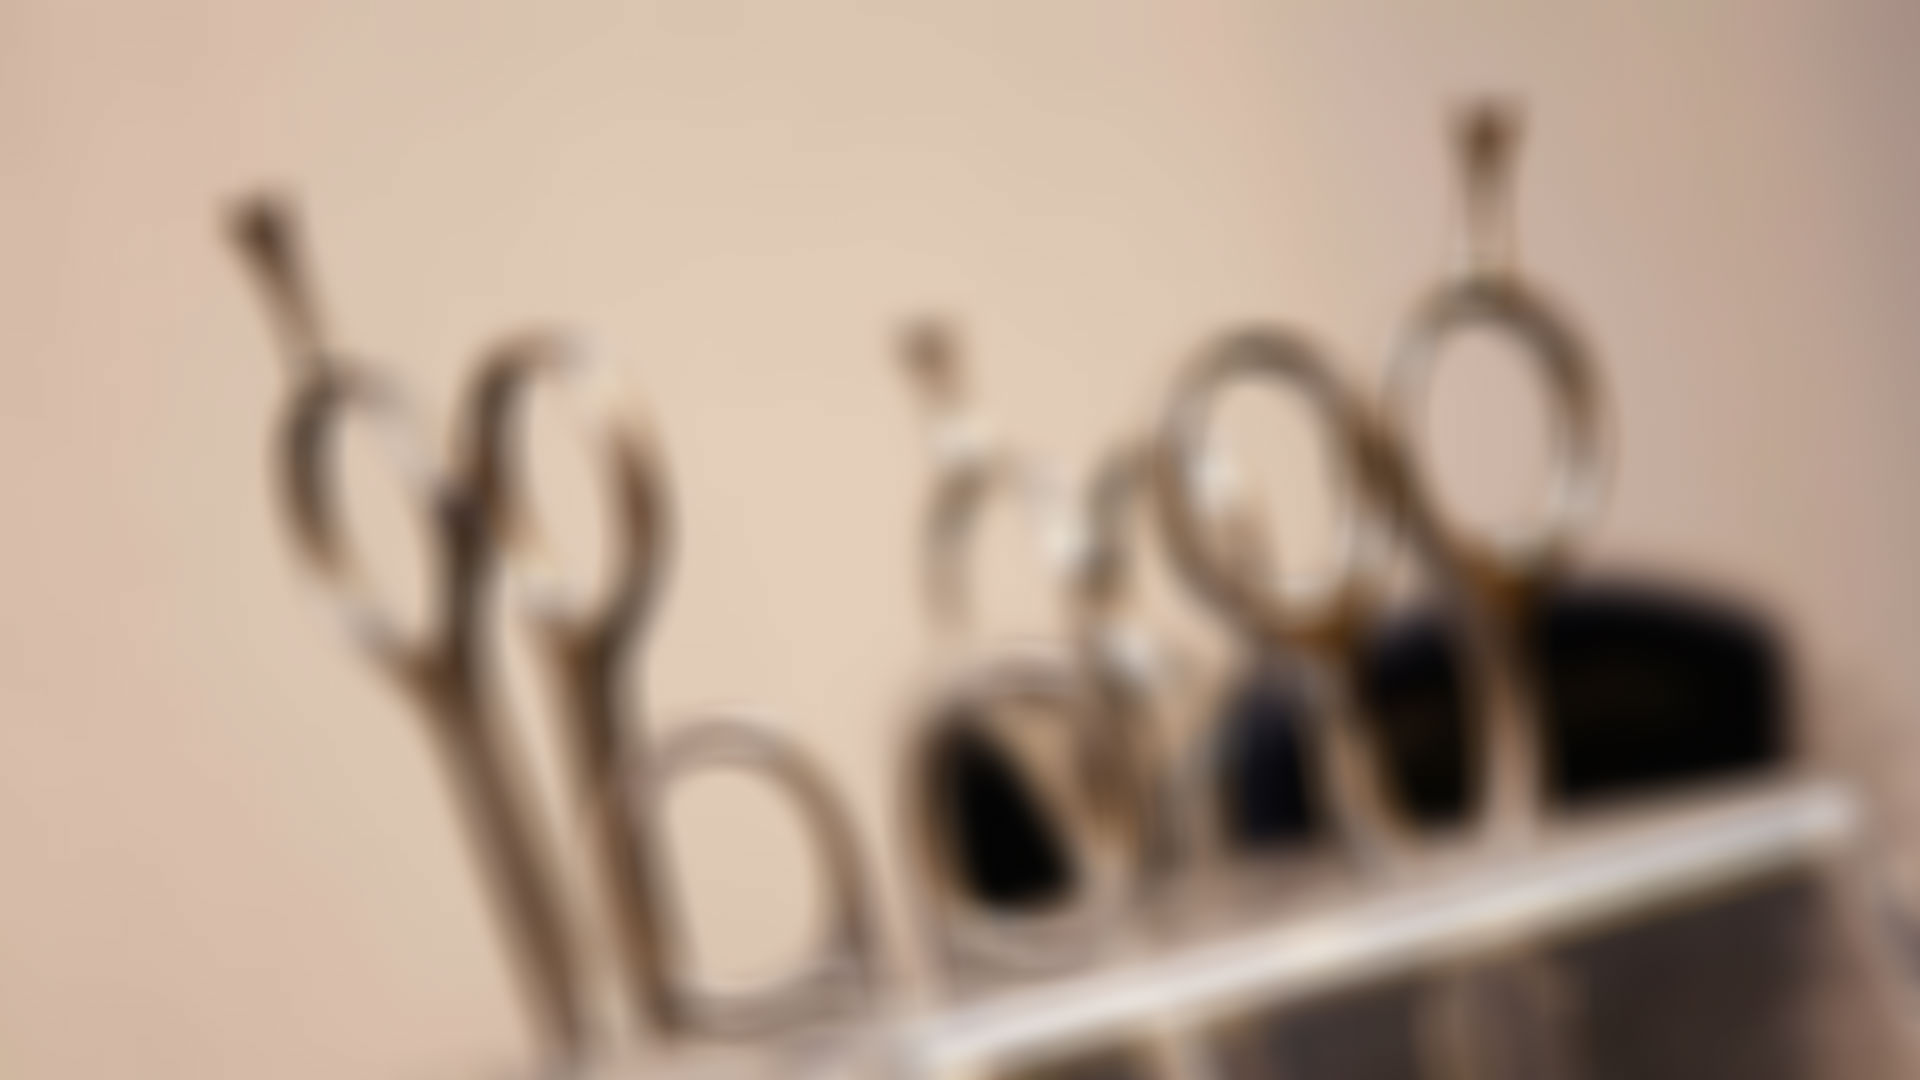
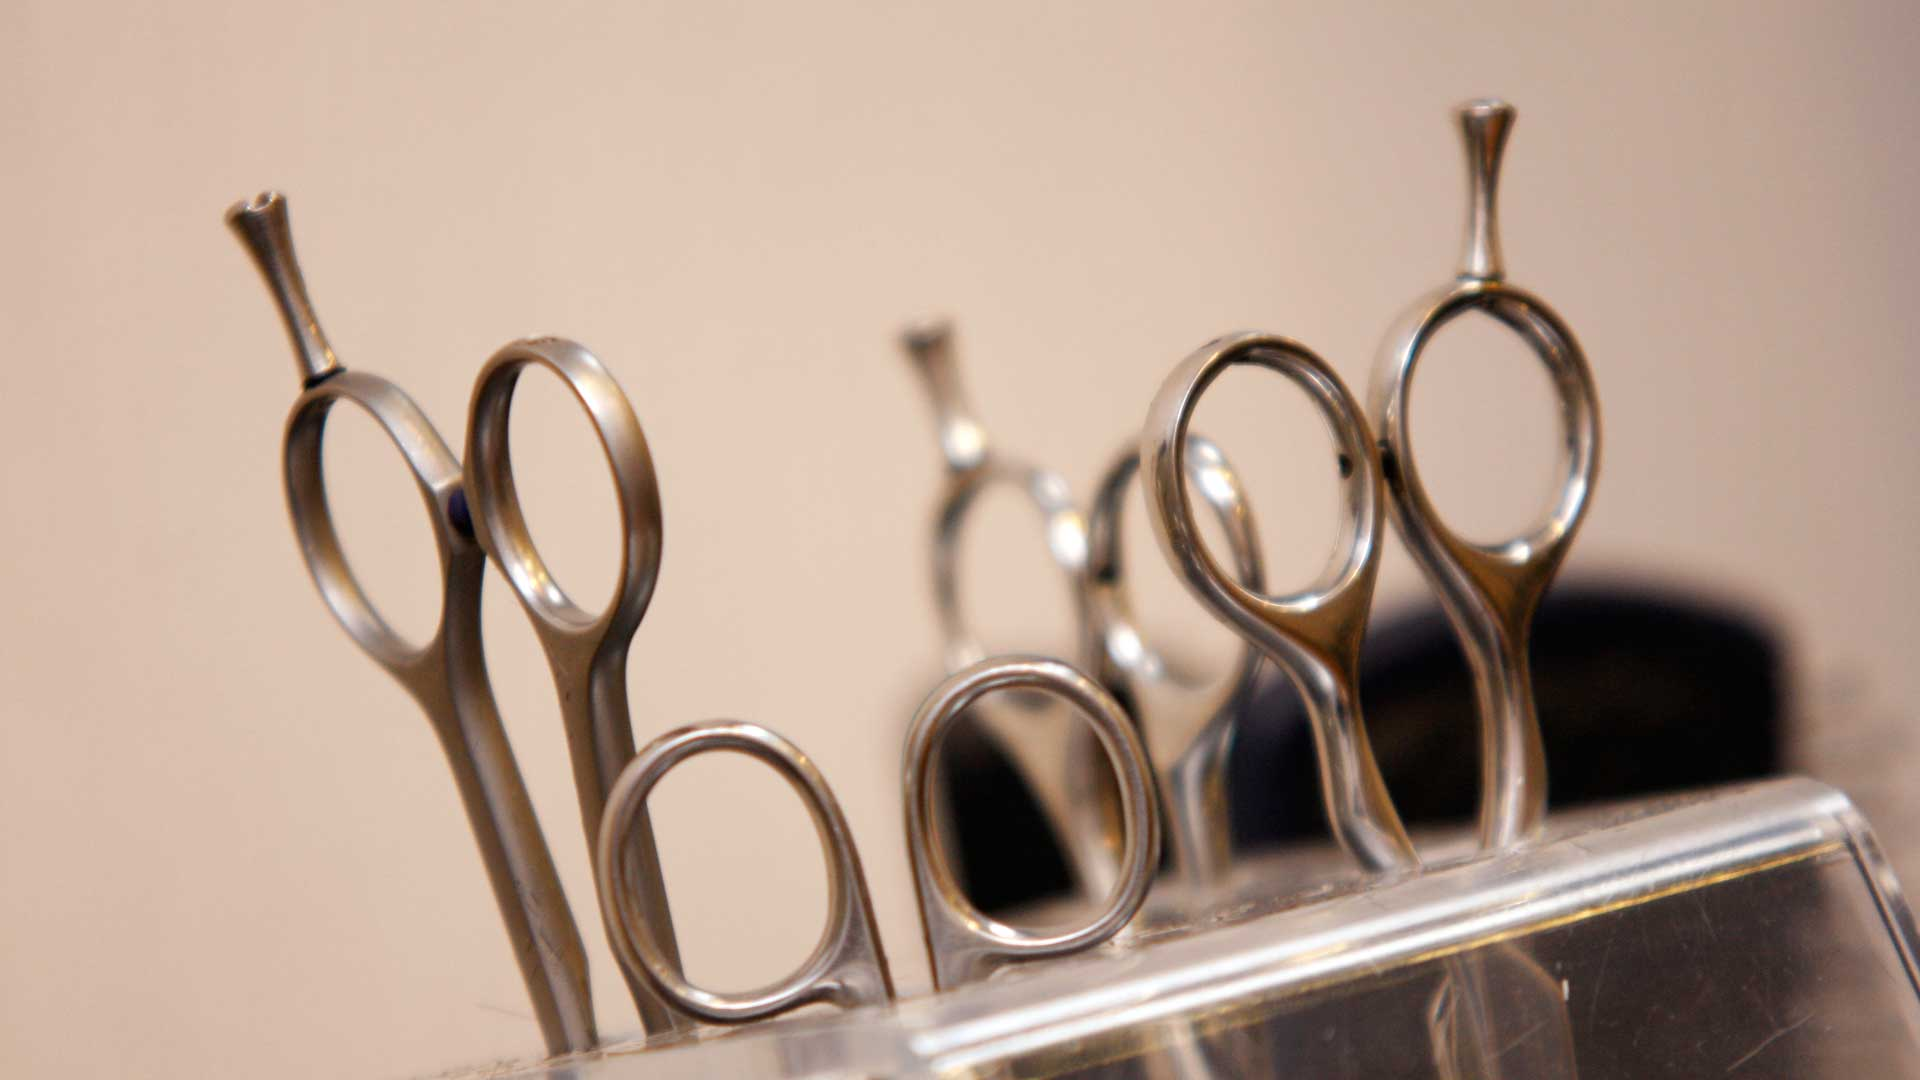
Background changed

Changed region(s): [[0.0938, 0.0917, 1.0, 1.0], [0.4688, 0.3056, 0.5, 0.3361]]

diff --git a/smarthair/src/app/packetComponent/packet.component.html b/smarthair/src/app/packetComponent/packet.component.html
@@ -3,11 +3,22 @@
 
         <md-card> 
 
+            <md-card-title>
+                Bitte Postleitzahl eingeben.
+            </md-card-title>
             <md-card-content>
-                <button md-raised-button> TEST </button>
-                <a routerLink="/plz" routerLinkActive="active">PLZ</a>
+                
+                <md-input-container>
+                    <input mdInput placeholder="Postleitzahl" value="">
+                </md-input-container>
+                <a routerLink="/plz" routerLinkActive="active">
+                
+                    <button md-raised-button> TEST </button>
+                 
+                </a>
+
             </md-card-content>
-            
+
         </md-card>
 
 

diff --git a/smarthair/src/index.html b/smarthair/src/index.html
@@ -19,7 +19,7 @@
       }
     </style>
 </head>
-<body bgcolor="#E36662">
+<body background="assets/salon.jpg">
   <app-root>Loading...</app-root>
 </body>
 </html>

diff --git a/smarthair/src/app/app.component.html b/smarthair/src/app/app.component.html
@@ -1,3 +1,4 @@
         Smart Hair
+        <p>
   <router-outlet></router-outlet>
 
